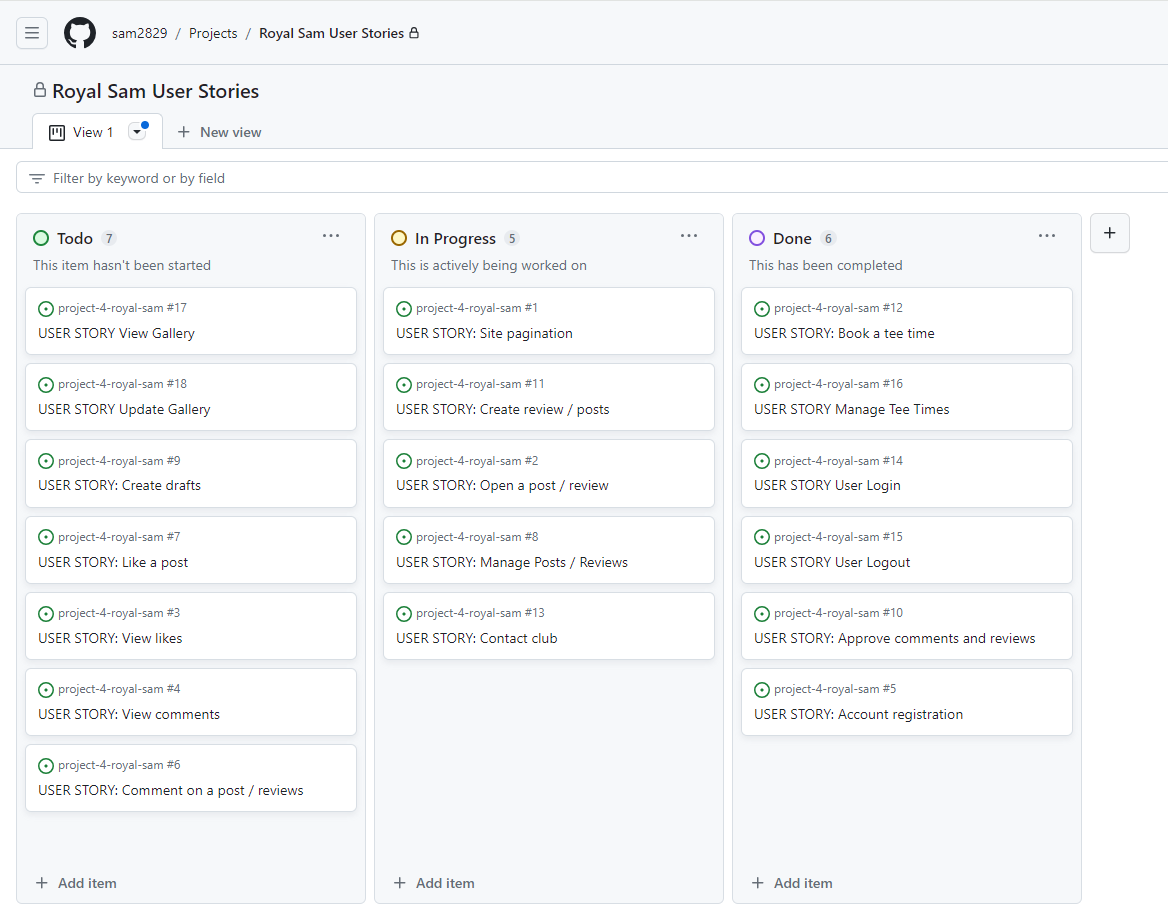
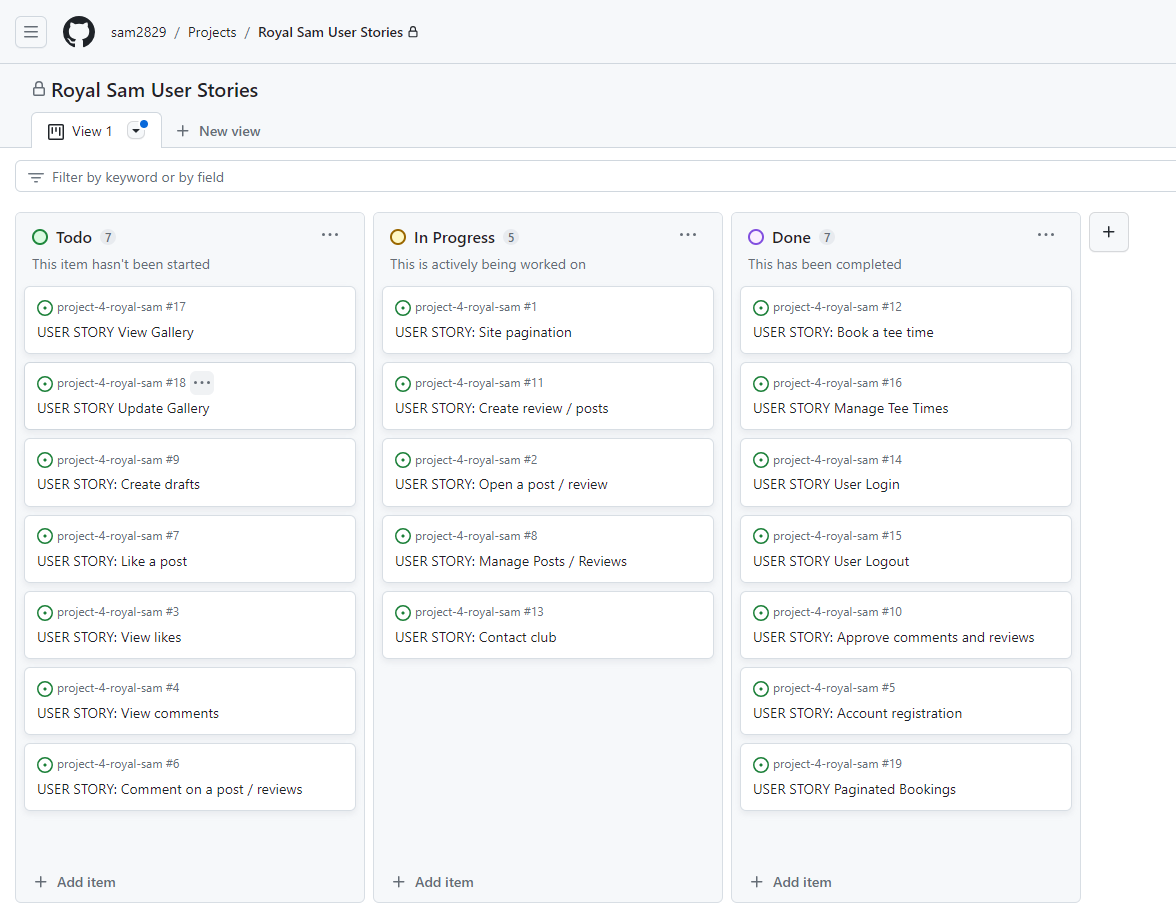
Add User Stories section to read me file

diff --git a/README.md b/README.md
@@ -23,6 +23,26 @@ This is my fourth portfolio project for the Code Institute and my goal with this
       - [First Time Visitor Goals](#first-time-visitor-goals)
       - [Returning Visitor Goals](#returning-visitor-goals)
     - [Agile Planning](#agile-planning)
+      - [User Stories](#user-stories)
+        - [Account Registration](#account-registration)
+        - [User Login](#user-login)
+        - [User Logout](#user-logout)
+        - [Book A Tee Time](#book-a-tee-time)
+        - [Manage Tee Times](#manage-tee-times)
+        - [Approve comments and reviews](#approve-comments-and-reviews)
+        - [Contact Club](#contact-club)
+        - [Create Review / Post](#create-review--post)
+        - [Manage Reviews / Posts](#manage-reviews--posts)
+        - [Like A Review / Post](#like-a-review--post)
+        - [Open A Review / Post](#open-a-review--post)
+        - [Site Pagination](#site-pagination)
+        - [Update Gallery](#update-gallery)
+        - [View Gallery](#view-gallery)
+        - [Create Drafts](#create-drafts)
+        - [Commen On A Post / Review](#commen-on-a-post--review)
+        - [View Comments](#view-comments)
+        - [View Likes](#view-likes)
+        - [Paginated Bookings](#paginated-bookings)
   
   
 ## User Experience
@@ -72,3 +92,83 @@ It was carried out this way to try ensure that all core requirements were comple
 The kanban board was created using Github projects, this helped me be able to see all my user stories and be able to keep track of which ones had been done, to do or in progress.
 
 ![User Stories Screenshot](static/screeshots/user-stories-screenshot.png)
+
+#### User Stories
+
+The following user stories were completed throughout the development.
+
+##### Account Registration
+  
+- As a site user I can register an account so that I can book a tee time, create a post, comment or like.
+
+##### User Login
+
+- As a site user I can login to my account so that I can manage my bookings, leave reviews or comment on posts / reviews.
+
+##### User Logout
+
+- As a user I can logout of my account so that I can protect my bookings.
+
+##### Book A Tee Time
+
+- As a site user I can book a tee time so that I can arrange to play golf the time I want.
+
+##### Manage Tee Times
+
+- As a user / admin I can manage my bookings, edit and delete them so that I can easily change times to play golf.
+  
+##### Approve comments and reviews
+
+- As a site admin I can approve or disapprove comments and reviews so that I can filter out objectionable comments and reviews.
+
+##### Contact Club
+
+- As a site user I can find contact information so that I can have any of my queries answered.
+
+##### Create Review / Post
+
+- As a site user / admin I can create a post to update users or reply to reviews as admin and leave reviews as user so that I can leave my views and updates on the golf course.
+
+##### Manage Reviews / Posts
+
+- As a admin I can create, read, update and delete posts / reviews so that iI can manage my content.
+
+##### Like A Review / Post
+
+- As a site user I can like or unlike a post so that I can interact with the content.
+
+##### Open A Review / Post
+
+- As a site user I can click on a post / review so that I can read the full text.
+
+##### Site Pagination
+
+- As a site user I can view a paginated list of reviews so that I can easily select a review I want to view.
+
+##### Update Gallery
+
+- As a admin I can create, update or delete the gallery photos so that the user can see updated photos of the golf course.
+
+##### View Gallery
+
+- As a user I can view the course gallery so that I can see how good the golf course is.
+
+##### Create Drafts
+
+- As a site admin I can create draft posts so that I can finish writing the content later.
+
+##### Commen On A Post / Review
+
+- As a site user I can leave comments on a post / review so that I can be involved in the conversation.
+
+##### View Comments
+
+- As a site user I can view comments on an individual post / review so that I can read the conversation.
+
+##### View Likes
+
+- As a site user I can view the number of likes on each post / review so that I can see whichis the most popular or liked.
+
+##### Paginated Bookings
+
+- As a user I can view a paginated list of my bookings so that I can clearly see the list of my bookings.
